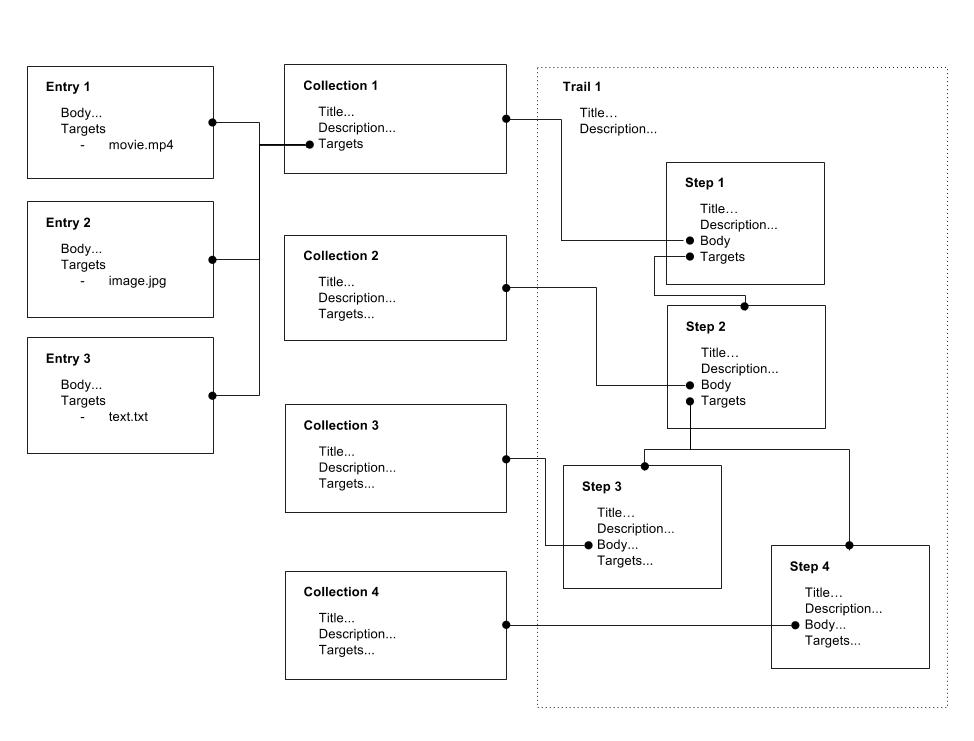
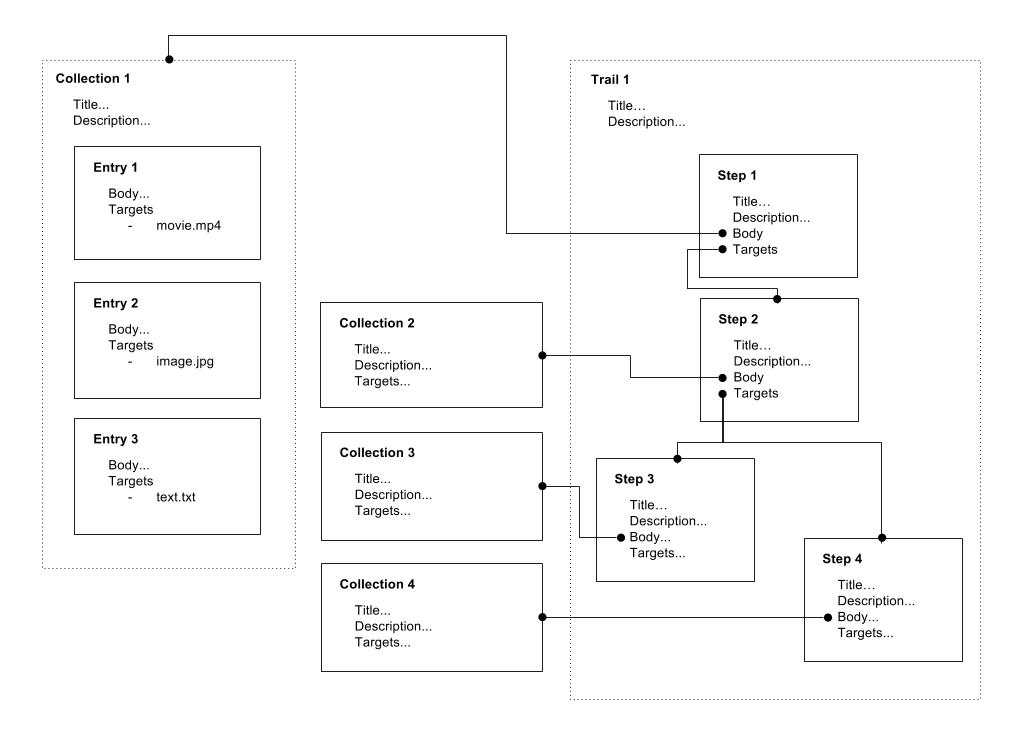
updated diagram

diff --git a/trails.md b/trails.md
@@ -12,6 +12,8 @@ A consuming client application can interpret these IRIs as necessary.
 
 <img src="Trails.jpg">
 
+Elements contained within a dotted outline are targets of the parent element.
+
 This example defines: 
 
 - Three **entry** objects describing [fragments](https://www.w3.org/TR/annotation-model/#fragment-selector) of .mp4, .jpg, and .txt files defined as annotations with the `describing` or `bookmarking` motivation. It is no required to use a fragment selector, the whole file could equally be referenced, this example just shows that it is possible.
